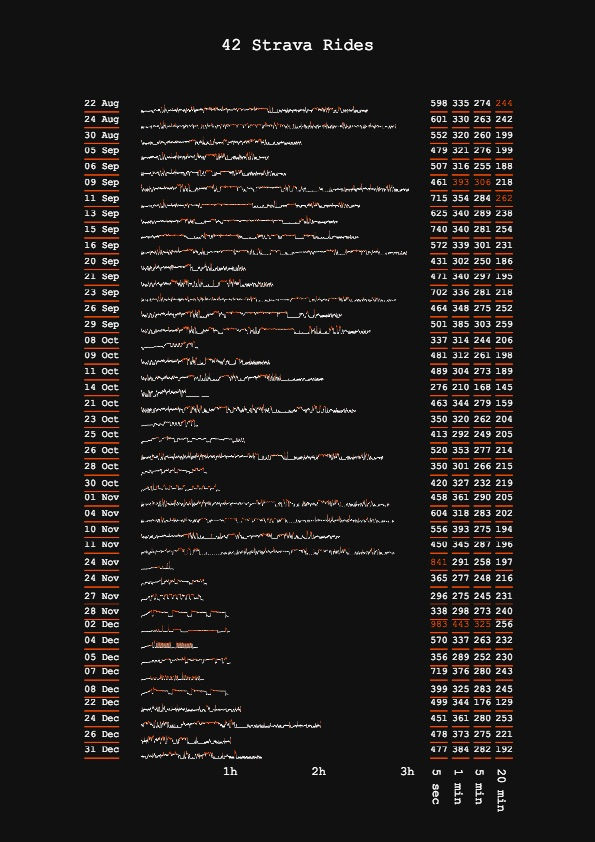
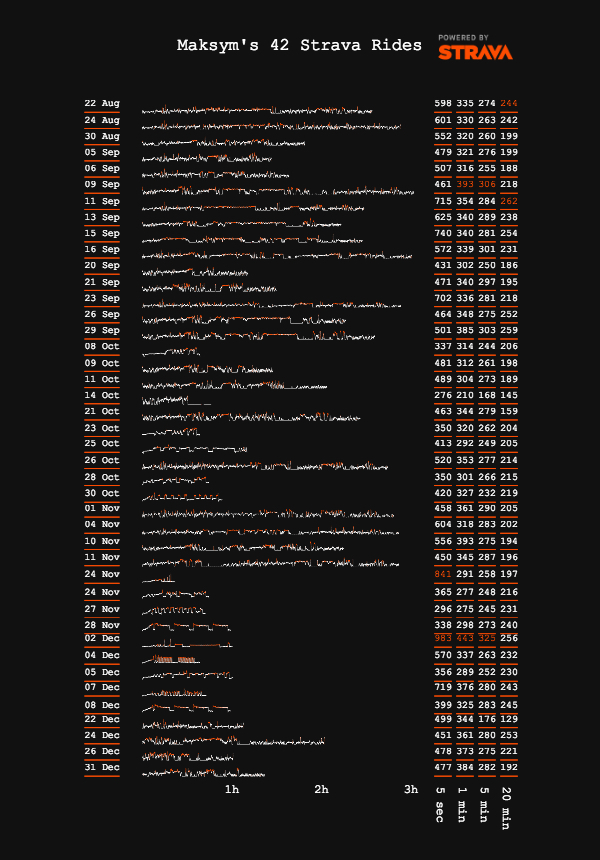
store

diff --git a/dash_app/app.py b/dash_app/app.py
@@ -3,6 +3,7 @@ import dash
 import dash_core_components as dcc
 import dash_html_components as html
 from dash.dependencies import Input, Output, Event, State
+from dash.exceptions import PreventUpdate
 from config import config_app
 from layout import app_layout, make_left, make_right
 from plots import process_data, plot_poster, hallo
@@ -29,13 +30,13 @@ app = config_app(app, debug=True)
 app.layout = app_layout()
 
 
-@app.callback(Output('athlete', 'value'),
+@app.callback(Output('athlete', 'data'),
             [Input('url', 'pathname')],
-            [State('athlete', 'value')])
+            [State('athlete', 'data')])
 def athltete_login(pathname, athlete):
     """Get athlete info and set it to the athlete div"""
     if pathname == '/' or pathname is None:
-        rv = athlete
+        raise PreventUpdate
     else:
         try:
             _id = pathname.strip('/')
@@ -43,15 +44,16 @@ def athltete_login(pathname, athlete):
             rv = r.text
         except Exception as e:
             app.server.logger.error(e)
-            rv = athlete
+            raise PreventUpdate
     app.server.logger.info(f"athltete_login: {rv}")
     return rv
 
 
 @app.callback(Output('page-left', 'children'),
             [Input('url', 'pathname'),
-             Input('athlete', 'value')])
-def render_left(pathname, athlete):
+             Input('athlete', 'modified_timestamp')],
+             [State('athlete', 'data')])
+def render_left(pathname, ts, athlete):
     """Render left page based on value of pathname and athlete"""
     app.server.logger.info(f"render_left: {pathname} {athlete}")
     if (pathname == '/') or (athlete is None):
@@ -62,22 +64,24 @@ def render_left(pathname, athlete):
 
 
 @app.callback(Output('interval-data', 'interval'),
-             [Input('data', 'value')],
+             [Input('data', 'modified_timestamp')],
+             [State('data', 'data')],
              events=[Event('interval-data', 'interval')])
-def stop_interval_data(data):
+def stop_interval_data(ts, data):
     """Stop the interval, when data is loaded into page-right"""
     if data: # Stop the interval, when data is fetched
-        app.server.logger.info(f"stop_interval_data True={(data is not None)} {type(data)} 3600 * 1000")
+        app.server.logger.info(f"stop_interval_data {ts} 3600 * 1000")
         return 3600 * 1000
     else:
-        app.server.logger.info(f"stop_interval_data True={(data is None)} {type(data)} 1000")
+        app.server.logger.info(f"stop_interval_data {ts} 1000")
         return 1000
 
 
-@app.callback(Output('data', 'value'),
-             [Input('athlete', 'value')],
+@app.callback(Output('data', 'data'),
+             [Input('athlete', 'modified_timestamp')],
+             [State('athlete', 'data')],
               events=[Event('interval-data', 'interval')])
-def fetch_data(athlete):
+def fetch_data(ts, athlete):
     """Load the data from API into the page right"""
     
     if athlete is not None:
@@ -95,15 +99,22 @@ def fetch_data(athlete):
         rv = r.text
     return rv
 
+
 @app.callback(Output('graph', 'value'),
-     [Input('data', 'value')])
-def fetch_graph(data):
+     [Input('data', 'modified_timestamp')],
+     [State('athlete', 'data'), State('data', 'data')])
+def fetch_graph(ts, athlete, data):
     """Generate graph"""
+    if athlete:
+        a = json.loads(athlete)
+    else:
+        a = None
+    
     if data:
         _d = json.loads(data)
         app.server.logger.info(f'fetch_graph: Data {len(_d)}')
         d = process_data(_d)
-        rv = plot_poster(d)
+        rv = plot_poster(d, a)
     else:
         app.server.logger.info(f'fetch_graph: No data')
         rv = None
@@ -111,16 +122,16 @@ def fetch_graph(data):
 
 
 @app.callback(Output('page-right', 'children'),
-            [Input('graph', 'value')],
-             [State('page-right', 'children')])
-def page_right(graph, children):
+            [Input('graph', 'modified_timestam')],
+             [State('page-right', 'children'), State('graph', 'data')])
+def page_right(ts, children, graph):
     """Load the data from API into the page right"""
     if graph:
         app.server.logger.info(f"page_right {type(graph)}")
         rv = html.Div(dcc.Graph(id='fig', figure=graph))
     else:
         app.server.logger.info(f"page_right Graph is not ready")
-        rv = children
+        raise PreventUpdate
     return rv
 
 

diff --git a/dash_app/plots.py b/dash_app/plots.py
@@ -111,10 +111,10 @@ def power_color(new, old):
         return "#FFF"
 
 
-def plot_poster(to_plot):
+def plot_poster(to_plot, athlete):
     # n_plots = len(to_plot)
     MODE = 'markers'
-    n_plots = 42
+    n_plots = 2
     specs = [[{}, {}, {}] for i in range(n_plots)]
     fig = tools.make_subplots(rows=n_plots, cols=3,
                               specs=specs,
@@ -194,14 +194,25 @@ def plot_poster(to_plot):
         else:
             break
 
-    fig['layout'].update(title='42 Strava Rides',
+    fig['layout'].update(title=f"{athlete['firstname']}'s 42 Strava Rides",
                          font=dict(family="Courier New", color="#FFF"),
-                         width=595,
-                         height=842,
+                         width=600,
+                         height=860,
                          showlegend=False, paper_bgcolor='#111', plot_bgcolor='#111',
                          yaxis=yaxis_settings,
                          xaxis=xaxis_settings1,
                          xaxis2=xaxis_settings2,
-                         xaxis3=xaxis_settings3)
+                         xaxis3=xaxis_settings3,
+                         images=[dict(
+                                source= '/static/api_logo_pwrdBy_strava_stack_light.png',
+                                xref= "paper",
+                                yref= "paper",
+                                x= 1,
+                                y= 1.05,
+                                sizex= 0.2,
+                                sizey= 0.2,
+                                xanchor='right',
+                                yanchor='bottom',
+                                layer= "below")])
 
     return fig

diff --git a/dash_app/layout.py b/dash_app/layout.py
@@ -13,9 +13,9 @@ def app_layout():
         children=[
             dcc.Location(id='url', refresh=False),
             dcc.Interval(id='interval-data', interval=1000, n_intervals=0),
-            html.Div(id='athlete', style={'display': 'none'}),
-            html.Div(id='data', style={'display': 'none'}),
-            html.Div(id='graph', style={'display': 'none'}),
+            dcc.Store(id='athlete', storage_type='session'),
+            dcc.Store(id='data', storage_type='session'),
+            dcc.Store(id='graph', storage_type='session'),
             html.Div(id='none', style={'display': 'none'}),
             html.Div(id='page-content',
                 className='row no-gutters',
